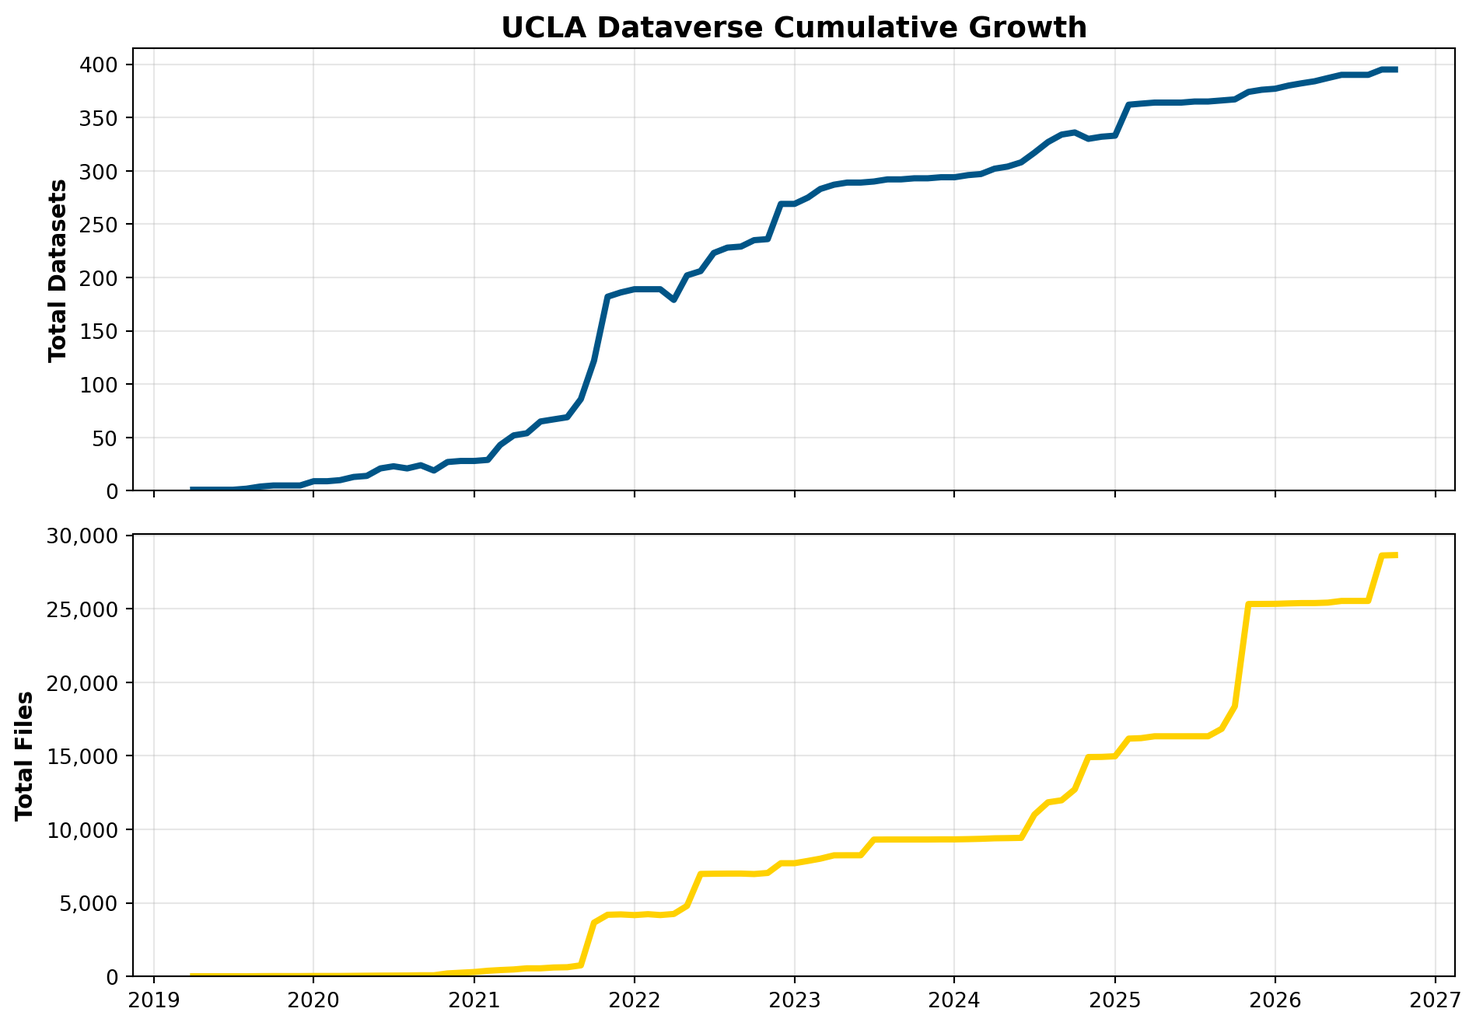
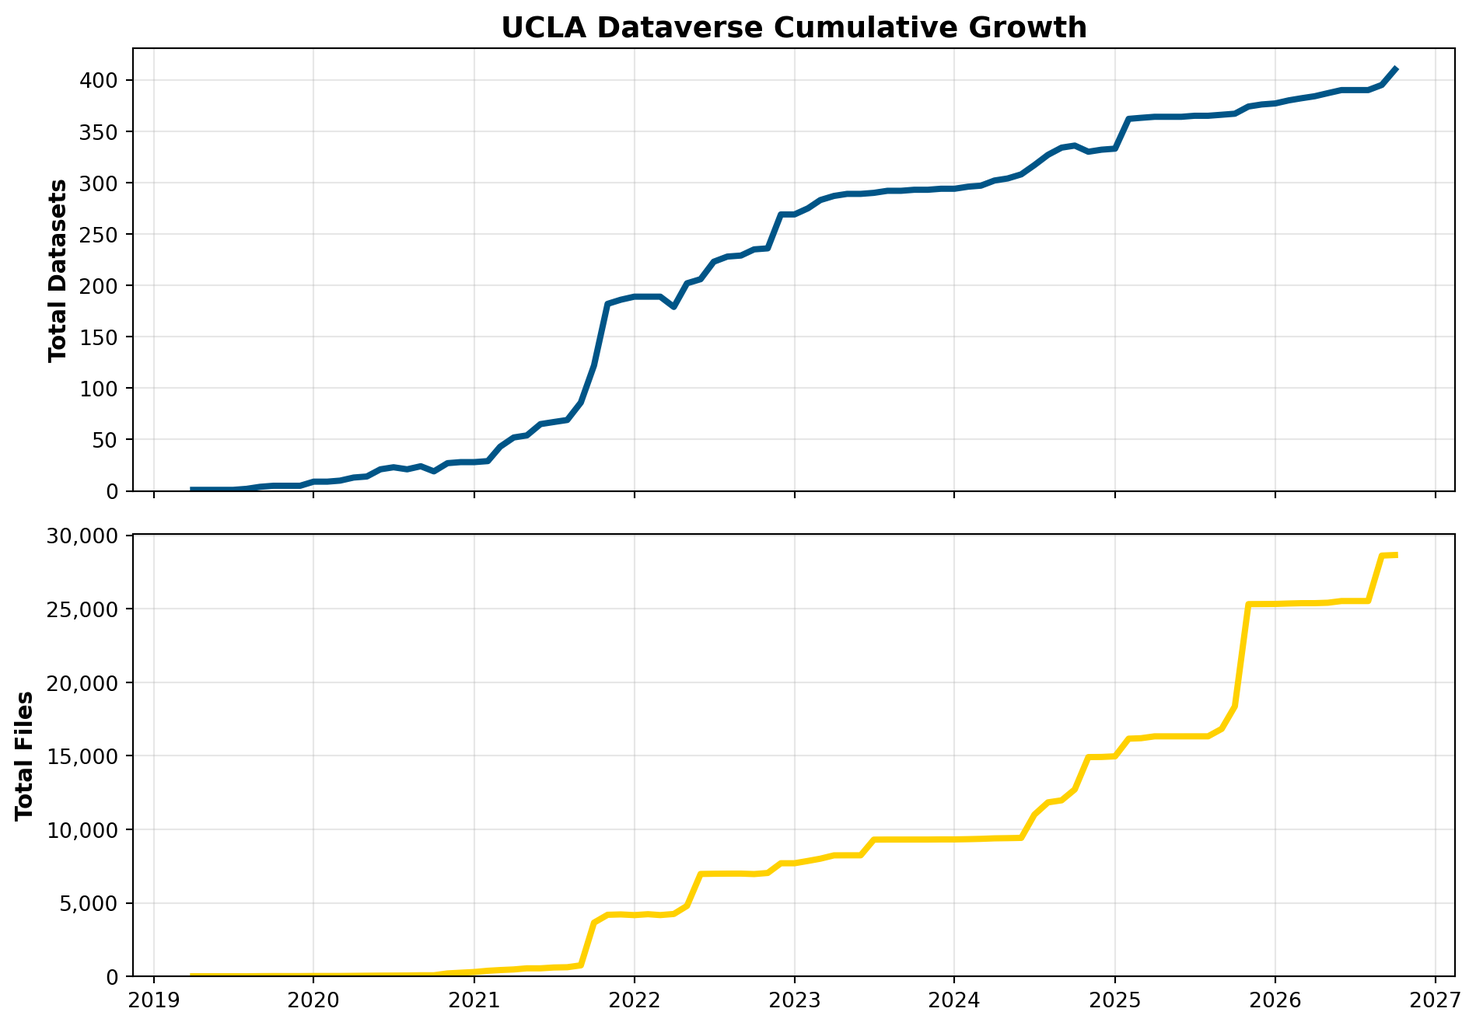
deploy: 56a7bd4430513649f002a55ab0844d240145ef59

diff --git a/instruction.html b/instruction.html
@@ -389,7 +389,7 @@ ul.task-list li input[type="checkbox"] {
 
 
 <p><em>Evidence page: registered seats and workshop attendance from attendee-level and validated aggregate sources, with their definitions and limits.</em></p>
-<p><em>Last rendered: October 08, 2026</em></p>
+<p><em>Last rendered: October 25, 2026</em></p>
 <div class="callout callout-style-default callout-note callout-titled">
 <div class="callout-header d-flex align-content-center">
 <div class="callout-icon-container">
@@ -741,16 +741,16 @@ ul.task-list li input[type="checkbox"] {
 </div>
 <div class="cell">
 <div class="cell-output-display">
-<div class="datatables html-widget html-fill-item" id="htmlwidget-4f428a3da0a5f399b748" style="width:100%;height:auto;"></div>
-<script type="application/json" data-for="htmlwidget-4f428a3da0a5f399b748">{"x":{"filter":"none","vertical":false,"caption":"<caption>UCLA departments. Search or sort to find a specific unit. 96 departments with fewer than 5 are combined into one row, or omitted if that row is also under 5.<\/caption>","data":[["Geography","Information Studies","Library","Multiple Departments","Social Science","Environment and Sustainability","Psychology","Urban Planning","Atmospheric and Oceanic Sciences","Chemistry and Biochemistry","Biostatistics","Mathematics","Political Science","Epidemiology","Education","Institute of the Environment and Sustainability","Statistics","UCLA Health","Management","Economics","Sociology","IT Services","Public Policy","Anthropology","Computer Science","Civil and Environmental Engineering","Health","Asian Languages and Cultures","Institute of Transportation Studies","English","History","Law","Linguistics","Architecture and Urban Design","Art History","Library Special Collections","Community Health Sciences","Ecology and Evolutionary Biology","East Asian Studies","Teaching and Learning Center","International Institute","Semel Institute for Neuroscience and Human Behavior","Pediatrics","Engineering Schoolwide Programs","Life Sciences","Humanities Technology","Pritzker Center for Strengthening Children and Families","Faculty Practice Group","Public Health","Health Policy and Management","Other units (each fewer than 5)"],[64,60,58,29,27,26,26,23,17,16,16,15,14,14,14,13,12,12,11,11,11,10,10,9,9,9,9,8,8,8,8,8,7,7,7,7,7,6,6,6,6,6,5,5,5,5,5,5,5,5,177]],"container":"<table class=\"display\">\n  <thead>\n    <tr>\n      <th>Department<\/th>\n      <th>Attendance<\/th>\n    <\/tr>\n  <\/thead>\n<\/table>","options":{"pageLength":10,"dom":"ftp","columnDefs":[{"className":"dt-right","targets":1},{"name":"Department","targets":0},{"name":"Attendance","targets":1}],"order":[],"autoWidth":false,"orderClasses":false}},"evals":[],"jsHooks":[]}</script>
+<div class="datatables html-widget html-fill-item" id="htmlwidget-35861446262e7d3df338" style="width:100%;height:auto;"></div>
+<script type="application/json" data-for="htmlwidget-35861446262e7d3df338">{"x":{"filter":"none","vertical":false,"caption":"<caption>UCLA departments. Search or sort to find a specific unit. 96 departments with fewer than 5 are combined into one row, or omitted if that row is also under 5.<\/caption>","data":[["Geography","Information Studies","Library","Multiple Departments","Social Science","Environment and Sustainability","Psychology","Urban Planning","Atmospheric and Oceanic Sciences","Chemistry and Biochemistry","Biostatistics","Mathematics","Political Science","Epidemiology","Education","Institute of the Environment and Sustainability","Statistics","UCLA Health","Management","Economics","Sociology","IT Services","Public Policy","Anthropology","Computer Science","Civil and Environmental Engineering","Health","Asian Languages and Cultures","Institute of Transportation Studies","English","History","Law","Linguistics","Architecture and Urban Design","Art History","Library Special Collections","Community Health Sciences","Ecology and Evolutionary Biology","East Asian Studies","Teaching and Learning Center","International Institute","Semel Institute for Neuroscience and Human Behavior","Pediatrics","Engineering Schoolwide Programs","Life Sciences","Humanities Technology","Pritzker Center for Strengthening Children and Families","Faculty Practice Group","Public Health","Health Policy and Management","Other units (each fewer than 5)"],[64,60,58,29,27,26,26,23,17,16,16,15,14,14,14,13,12,12,11,11,11,10,10,9,9,9,9,8,8,8,8,8,7,7,7,7,7,6,6,6,6,6,5,5,5,5,5,5,5,5,177]],"container":"<table class=\"display\">\n  <thead>\n    <tr>\n      <th>Department<\/th>\n      <th>Attendance<\/th>\n    <\/tr>\n  <\/thead>\n<\/table>","options":{"pageLength":10,"dom":"ftp","columnDefs":[{"className":"dt-right","targets":1},{"name":"Department","targets":0},{"name":"Attendance","targets":1}],"order":[],"autoWidth":false,"orderClasses":false}},"evals":[],"jsHooks":[]}</script>
 </div>
 </div>
 </div>
 <div id="tabset-1-4" class="tab-pane" role="tabpanel" aria-labelledby="tabset-1-4-tab">
 <div class="cell">
 <div class="cell-output-display">
-<div class="datatables html-widget html-fill-item" id="htmlwidget-00e0c13773099b1f066a" style="width:100%;height:auto;"></div>
-<script type="application/json" data-for="htmlwidget-00e0c13773099b1f066a">{"x":{"filter":"none","vertical":false,"caption":"<caption>Validated UCLA attendance by broader organizational parent. 10 parents with fewer than 5 are combined into one row, or omitted if that row is also under 5.<\/caption>","data":[["UCLA College — Social Sciences","School of Education and Information Studies","UCLA Library","UCLA College — Physical Sciences","David Geffen School of Medicine","Luskin School of Public Affairs","UCLA College — Life Sciences","Fielding School of Public Health","UCLA College — Humanities","Institute of the Environment and Sustainability","Samueli School of Engineering","UCLA Health","Campus administration","Research and technology administration","UCLA International Institute","Anderson School of Management","School of Arts and Architecture","School of Law","Other units (each fewer than 5)"],["college_division","professional_school","library","college_division","professional_school","professional_school","college_division","professional_school","college_division","academic_institute","professional_school","health_system","administrative_group","administrative_group","academic_institute","professional_school","professional_school","professional_school",null],[177,76,69,67,57,53,52,52,49,39,36,21,16,14,13,11,10,8,18]],"container":"<table class=\"display\">\n  <thead>\n    <tr>\n      <th>Organizational parent<\/th>\n      <th>Parent type<\/th>\n      <th>Attendance<\/th>\n    <\/tr>\n  <\/thead>\n<\/table>","options":{"pageLength":15,"dom":"ftp","columnDefs":[{"className":"dt-right","targets":2},{"name":"Organizational parent","targets":0},{"name":"Parent type","targets":1},{"name":"Attendance","targets":2}],"order":[],"autoWidth":false,"orderClasses":false,"lengthMenu":[10,15,25,50,100]}},"evals":[],"jsHooks":[]}</script>
+<div class="datatables html-widget html-fill-item" id="htmlwidget-b81d65b7638a16f94124" style="width:100%;height:auto;"></div>
+<script type="application/json" data-for="htmlwidget-b81d65b7638a16f94124">{"x":{"filter":"none","vertical":false,"caption":"<caption>Validated UCLA attendance by broader organizational parent. 10 parents with fewer than 5 are combined into one row, or omitted if that row is also under 5.<\/caption>","data":[["UCLA College — Social Sciences","School of Education and Information Studies","UCLA Library","UCLA College — Physical Sciences","David Geffen School of Medicine","Luskin School of Public Affairs","UCLA College — Life Sciences","Fielding School of Public Health","UCLA College — Humanities","Institute of the Environment and Sustainability","Samueli School of Engineering","UCLA Health","Campus administration","Research and technology administration","UCLA International Institute","Anderson School of Management","School of Arts and Architecture","School of Law","Other units (each fewer than 5)"],["college_division","professional_school","library","college_division","professional_school","professional_school","college_division","professional_school","college_division","academic_institute","professional_school","health_system","administrative_group","administrative_group","academic_institute","professional_school","professional_school","professional_school",null],[177,76,69,67,57,53,52,52,49,39,36,21,16,14,13,11,10,8,18]],"container":"<table class=\"display\">\n  <thead>\n    <tr>\n      <th>Organizational parent<\/th>\n      <th>Parent type<\/th>\n      <th>Attendance<\/th>\n    <\/tr>\n  <\/thead>\n<\/table>","options":{"pageLength":15,"dom":"ftp","columnDefs":[{"className":"dt-right","targets":2},{"name":"Organizational parent","targets":0},{"name":"Parent type","targets":1},{"name":"Attendance","targets":2}],"order":[],"autoWidth":false,"orderClasses":false,"lengthMenu":[10,15,25,50,100]}},"evals":[],"jsHooks":[]}</script>
 </div>
 </div>
 </div>
@@ -766,8 +766,8 @@ ul.task-list li input[type="checkbox"] {
 </div>
 <div class="cell">
 <div class="cell-output-display">
-<div class="datatables html-widget html-fill-item" id="htmlwidget-979975d7a8c36360d5e9" style="width:100%;height:auto;"></div>
-<script type="application/json" data-for="htmlwidget-979975d7a8c36360d5e9">{"x":{"filter":"none","vertical":false,"caption":"<caption>Participant affiliations. 142 affiliations with fewer than 5 are combined into one row, or omitted if that row is also under 5.<\/caption>","data":[["Graduate Student","Staff","UnderGraduate Student","Faculty","Postdoc","Graduate","Librarian","Other","Professional Researcher","Alumni","Undergrad","UC Alumni","Student, gradaute","PostDoc","Alum","Undergraduate","Student","Non-UCB","Project Scientist","Physician / Clinician","Research staff","Visiting Scholar","Community Member","Graduate, Other","Freshman/Sophomore","Medical Resident","Other units (each fewer than 5)"],[3627,2791,1538,655,593,411,395,389,285,137,80,68,44,35,31,29,20,13,12,11,10,10,9,6,6,6,203]],"container":"<table class=\"display\">\n  <thead>\n    <tr>\n      <th>Affiliation<\/th>\n      <th>Attendance<\/th>\n    <\/tr>\n  <\/thead>\n<\/table>","options":{"pageLength":10,"dom":"ftp","columnDefs":[{"className":"dt-right","targets":1},{"name":"Affiliation","targets":0},{"name":"Attendance","targets":1}],"order":[],"autoWidth":false,"orderClasses":false}},"evals":[],"jsHooks":[]}</script>
+<div class="datatables html-widget html-fill-item" id="htmlwidget-530b0c6908b8c080bce3" style="width:100%;height:auto;"></div>
+<script type="application/json" data-for="htmlwidget-530b0c6908b8c080bce3">{"x":{"filter":"none","vertical":false,"caption":"<caption>Participant affiliations. 142 affiliations with fewer than 5 are combined into one row, or omitted if that row is also under 5.<\/caption>","data":[["Graduate Student","Staff","UnderGraduate Student","Faculty","Postdoc","Graduate","Librarian","Other","Professional Researcher","Alumni","Undergrad","UC Alumni","Student, gradaute","PostDoc","Alum","Undergraduate","Student","Non-UCB","Project Scientist","Physician / Clinician","Research staff","Visiting Scholar","Community Member","Graduate, Other","Freshman/Sophomore","Medical Resident","Other units (each fewer than 5)"],[3627,2791,1538,655,593,411,395,389,285,137,80,68,44,35,31,29,20,13,12,11,10,10,9,6,6,6,203]],"container":"<table class=\"display\">\n  <thead>\n    <tr>\n      <th>Affiliation<\/th>\n      <th>Attendance<\/th>\n    <\/tr>\n  <\/thead>\n<\/table>","options":{"pageLength":10,"dom":"ftp","columnDefs":[{"className":"dt-right","targets":1},{"name":"Affiliation","targets":0},{"name":"Attendance","targets":1}],"order":[],"autoWidth":false,"orderClasses":false}},"evals":[],"jsHooks":[]}</script>
 </div>
 </div>
 </div>
@@ -854,7 +854,7 @@ ul.task-list li input[type="checkbox"] {
 </div>
 </div>
 </div>
-<p><em>Last rendered: October 08, 2026</em></p>
+<p><em>Last rendered: October 25, 2026</em></p>
 
 
 </section>

diff --git a/infrastructure.html b/infrastructure.html
@@ -380,17 +380,17 @@ ul.task-list li input[type="checkbox"] {
 <em>Operations and provenance appendix: repository, storage, and cloud metrics. For the research these systems support, see <a href="investments.html">Research supported by shared investments</a>.</em>
 </p>
 <p>
-<em>Last rendered: October 08, 2026</em>
+<em>Last rendered: October 25, 2026</em>
 </p>
 <div class="kpi-row grid">
 <div class="g-col-6 g-col-md-4 kpi-card">
-<p><span class="kpi-label">Dataverse Datasets</span> <span class="kpi-value">395</span> <span class="kpi-note">Released datasets deposited directly at UCLA, as of 2026-10. The repository’s released total (about 1,390, Feb 2026) also counts about 1,014 legacy SSDA datasets that Library staff harvested and curate.</span></p>
+<p><span class="kpi-label">Dataverse Datasets</span> <span class="kpi-value">410</span> <span class="kpi-note">Released datasets deposited directly at UCLA, as of 2026-10. The repository’s released total (about 1,390, Feb 2026) also counts about 1,014 legacy SSDA datasets that Library staff harvested and curate.</span></p>
 </div>
 <div class="g-col-6 g-col-md-4 kpi-card">
-<p><span class="kpi-label">Dataverse Files</span> <span class="kpi-value">28,644</span> <span class="kpi-note">Files in datasets deposited directly at UCLA, as of 2026-10</span></p>
+<p><span class="kpi-label">Dataverse Files</span> <span class="kpi-value">28,657</span> <span class="kpi-note">Files in datasets deposited directly at UCLA, as of 2026-10</span></p>
 </div>
 <div class="g-col-6 g-col-md-4 kpi-card">
-<p><span class="kpi-label">Total Downloads</span> <span class="kpi-value">259,022</span> <span class="kpi-note">File-level download events, cumulative, as of 2026-10. The same measure stood at about 143,000 in Feb 2026.</span></p>
+<p><span class="kpi-label">Total Downloads</span> <span class="kpi-value">266,168</span> <span class="kpi-note">File-level download events, cumulative, as of 2026-10. The same measure stood at about 143,000 in Feb 2026.</span></p>
 </div>
 </div>
 <div class="tabset-margin-container"></div><div class="panel-tabset">
@@ -399,7 +399,7 @@ ul.task-list li input[type="checkbox"] {
 <div id="tabset-1-1" class="tab-pane active" role="tabpanel" aria-labelledby="tabset-1-1-tab">
 <section id="repository-growth-cumulative" class="level3">
 <h3 class="anchored" data-anchor-id="repository-growth-cumulative">Repository Growth (Cumulative)</h3>
-<div id="8efbc431" class="cell" data-execution_count="3">
+<div id="8a9bb6db" class="cell" data-execution_count="3">
 <div class="cell-output cell-output-display">
 <div>
 <figure class="figure">
@@ -412,7 +412,7 @@ ul.task-list li input[type="checkbox"] {
 <section id="monthly-activity" class="level3">
 <h3 class="anchored" data-anchor-id="monthly-activity">Monthly Activity</h3>
 <p>Bars show the positive month-to-month change in the cumulative counts. Removals or corrections are not visible here, so this is net growth, not a count of everything published.</p>
-<div id="cbe92b71" class="cell" data-execution_count="4">
+<div id="764d943c" class="cell" data-execution_count="4">
 <div class="cell-output cell-output-display">
 <div>
 <figure class="figure">
@@ -426,7 +426,7 @@ ul.task-list li input[type="checkbox"] {
 <div id="tabset-1-2" class="tab-pane" role="tabpanel" aria-labelledby="tabset-1-2-tab">
 <section id="current-bucket-sizes" class="level3">
 <h3 class="anchored" data-anchor-id="current-bucket-sizes">Current Bucket Sizes</h3>
-<div id="872f812e" class="cell" data-results="asis" data-execution_count="5">
+<div id="af942d2b" class="cell" data-results="asis" data-execution_count="5">
 <div class="cell-output cell-output-display cell-output-markdown">
 <table class="caption-top table table-sm table-striped small">
 <colgroup>
@@ -445,62 +445,67 @@ ul.task-list li input[type="checkbox"] {
 <tr class="odd">
 <td>potree-test2</td>
 <td>11079.24 GiB</td>
-<td>2026-10-05</td>
+<td>2026-10-22</td>
 </tr>
 <tr class="even">
 <td>dataverse-files-replicated</td>
 <td>4346.38 GiB</td>
-<td>2026-10-05</td>
+<td>2026-10-22</td>
 </tr>
 <tr class="odd">
 <td>dataverse-files</td>
-<td>4346.33 GiB</td>
-<td>2026-10-05</td>
+<td>4346.34 GiB</td>
+<td>2026-10-22</td>
 </tr>
 <tr class="even">
 <td>ucla-dataverse-migration-assets</td>
-<td>513.14 GiB</td>
-<td>2026-10-05</td>
+<td>524.54 GiB</td>
+<td>2026-10-22</td>
 </tr>
 <tr class="odd">
 <td>dataverse-test-oregon</td>
 <td>196.47 GiB</td>
-<td>2026-10-05</td>
+<td>2026-10-22</td>
 </tr>
 <tr class="even">
 <td>test-dataverse-files2</td>
 <td>19.53 GiB</td>
-<td>2026-10-05</td>
+<td>2026-10-22</td>
 </tr>
 <tr class="odd">
 <td>lariac-backup</td>
 <td>3.34 GiB</td>
-<td>2026-10-05</td>
+<td>2026-10-22</td>
 </tr>
 <tr class="even">
 <td>dscbbillinginfo</td>
-<td>1.22 GiB</td>
-<td>2026-10-05</td>
+<td>1.24 GiB</td>
+<td>2026-10-22</td>
 </tr>
 <tr class="odd">
 <td>stackset-cloudtrail-stackset-4d9e86dd–trailbucket-ff7t7qulwkvo</td>
-<td>0.51 GiB</td>
-<td>2026-10-05</td>
+<td>0.60 GiB</td>
+<td>2026-10-22</td>
 </tr>
 <tr class="even">
 <td>test-dataverse-jmj</td>
 <td>0.00 GiB</td>
-<td>2026-10-05</td>
+<td>2026-10-22</td>
 </tr>
 <tr class="odd">
 <td>ucla-library-terraform-state</td>
 <td>0.00 GiB</td>
-<td>2026-10-05</td>
+<td>2026-10-22</td>
 </tr>
 <tr class="even">
 <td>bulk-policy-migration-221761179339</td>
 <td>0.00 GiB</td>
-<td>2026-10-05</td>
+<td>2026-10-22</td>
+</tr>
+<tr class="odd">
+<td>ucla-library-terraform-state-jmj</td>
+<td>0.00 GiB</td>
+<td>2026-10-22</td>
 </tr>
 </tbody>
 </table>
@@ -509,9 +514,9 @@ ul.task-list li input[type="checkbox"] {
 </section>
 <section id="potree-storage" class="level3">
 <h3 class="anchored" data-anchor-id="potree-storage">Potree Storage</h3>
-<div id="155664c1" class="cell" data-results="asis" data-execution_count="6">
+<div id="5b89ffe3" class="cell" data-results="asis" data-execution_count="6">
 <div class="cell-output cell-output-stdout">
-<pre><code>DSC hosts about 10.8 TiB of 3D point-cloud data for research visualization (Potree), as of 2026-10-06. Storage changed by +41.6 GiB (+0.4%) over the preceding 365 days.</code></pre>
+<pre><code>DSC hosts about 10.8 TiB of 3D point-cloud data for research visualization (Potree), as of 2026-10-24. Storage changed by +41.6 GiB (+0.4%) over the preceding 365 days.</code></pre>
 </div>
 </div>
 </section>
@@ -520,7 +525,7 @@ ul.task-list li input[type="checkbox"] {
 <section id="monthly-spend-share-by-application" class="level3">
 <h3 class="anchored" data-anchor-id="monthly-spend-share-by-application">Monthly Spend Share by Application</h3>
 <p>Operational view for DSC staff: each application’s share of monthly AWS charges, not absolute dollar amounts.</p>
-<div id="00bb39b3" class="cell" data-execution_count="7">
+<div id="6305888b" class="cell" data-execution_count="7">
 <div class="cell-output cell-output-display">
 <div>
 <figure class="figure">
@@ -553,7 +558,7 @@ ul.task-list li input[type="checkbox"] {
 <p><span class="kpi-label">Book-Chapter Links</span> <span class="kpi-value">160</span> <span class="kpi-note">Additional datasets linked to edited volumes (ISBN); citations not tracked</span></p>
 </div>
 </div>
-<div id="377953c8" class="cell" data-results="asis" data-execution_count="10">
+<div id="a5bf9fa5" class="cell" data-results="asis" data-execution_count="10">
 <div class="cell-output cell-output-display cell-output-markdown">
 <table class="caption-top table table-sm table-striped small">
 <colgroup>
@@ -734,9 +739,9 @@ ul.task-list li input[type="checkbox"] {
 </div>
 </div>
 <p><em>Last rendered:</em></p>
-<div id="a76c7740" class="cell" data-execution_count="12">
+<div id="737a2b93" class="cell" data-execution_count="12">
 <div class="cell-output cell-output-stdout">
-<pre><code>October 08, 2026</code></pre>
+<pre><code>October 25, 2026</code></pre>
 </div>
 </div>
 

diff --git a/consulting.html b/consulting.html
@@ -546,8 +546,8 @@ ul.task-list li input[type="checkbox"] {
 <div class="callout-body-container callout-body">
 <div class="cell">
 <div class="cell-output-display">
-<div class="datatables html-widget html-fill-item" id="htmlwidget-992cf4f0d38be8ad6d32" style="width:100%;height:auto;"></div>
-<script type="application/json" data-for="htmlwidget-992cf4f0d38be8ad6d32">{"x":{"filter":"none","vertical":false,"caption":"<caption>Consultation records file, Jan 2021 to Jun 2024. Named departments first; the combined group is listed last. 79 departments with fewer than 5 are combined into one row, or omitted if that row is also under 5.<\/caption>","data":[["Public Affairs","Ecology and Evolutionary Biology","History","Digital Humanities","Molecular, Cell, and Developmental Biology","Communications","Economics","Urban and Regional Planning","Political Science","Information Studies","Institute of the Environment and Sustainability","Health Policy and Management","Luskin School of Public Affairs","Chemistry","David Geffen School of Medicine","Public Health","Carceral Ecologies","Education","Environmental Science &amp; Engineering","Neuroscience","Psychology","Communication","Geography","Medicine","Public Policy","Asian Studies","Musicology","Society and Genetics","Spanish and Portuguese","Anderson School of Management","Gender Studies","Labor Studies","Statistics and Data Science","Other departments (each fewer than 5)"],[47,31,31,22,22,18,17,16,15,13,13,12,11,10,10,10,9,9,8,8,8,7,7,7,7,6,6,6,6,5,5,5,5,119]],"container":"<table class=\"display\">\n  <thead>\n    <tr>\n      <th>Department<\/th>\n      <th>Consultation records<\/th>\n    <\/tr>\n  <\/thead>\n<\/table>","options":{"pageLength":15,"dom":"ftp","columnDefs":[{"className":"dt-right","targets":1},{"name":"department","targets":0},{"name":"records","targets":1}],"order":[],"autoWidth":false,"orderClasses":false,"lengthMenu":[10,15,25,50,100]}},"evals":[],"jsHooks":[]}</script>
+<div class="datatables html-widget html-fill-item" id="htmlwidget-039987a2e194b92e2d2b" style="width:100%;height:auto;"></div>
+<script type="application/json" data-for="htmlwidget-039987a2e194b92e2d2b">{"x":{"filter":"none","vertical":false,"caption":"<caption>Consultation records file, Jan 2021 to Jun 2024. Named departments first; the combined group is listed last. 79 departments with fewer than 5 are combined into one row, or omitted if that row is also under 5.<\/caption>","data":[["Public Affairs","Ecology and Evolutionary Biology","History","Digital Humanities","Molecular, Cell, and Developmental Biology","Communications","Economics","Urban and Regional Planning","Political Science","Information Studies","Institute of the Environment and Sustainability","Health Policy and Management","Luskin School of Public Affairs","Chemistry","David Geffen School of Medicine","Public Health","Carceral Ecologies","Education","Environmental Science &amp; Engineering","Neuroscience","Psychology","Communication","Geography","Medicine","Public Policy","Asian Studies","Musicology","Society and Genetics","Spanish and Portuguese","Anderson School of Management","Gender Studies","Labor Studies","Statistics and Data Science","Other departments (each fewer than 5)"],[47,31,31,22,22,18,17,16,15,13,13,12,11,10,10,10,9,9,8,8,8,7,7,7,7,6,6,6,6,5,5,5,5,119]],"container":"<table class=\"display\">\n  <thead>\n    <tr>\n      <th>Department<\/th>\n      <th>Consultation records<\/th>\n    <\/tr>\n  <\/thead>\n<\/table>","options":{"pageLength":15,"dom":"ftp","columnDefs":[{"className":"dt-right","targets":1},{"name":"department","targets":0},{"name":"records","targets":1}],"order":[],"autoWidth":false,"orderClasses":false,"lengthMenu":[10,15,25,50,100]}},"evals":[],"jsHooks":[]}</script>
 </div>
 </div>
 </div>
@@ -721,7 +721,7 @@ ul.task-list li input[type="checkbox"] {
 </div>
 </div>
 </div>
-<p><em>Last rendered: October 08, 2026</em></p>
+<p><em>Last rendered: October 25, 2026</em></p>
 
 
 </section>

diff --git a/investments.html b/investments.html
@@ -726,7 +726,7 @@ ul.task-list li input[type="checkbox"] {
 </div>
 </div>
 </div>
-<p><em>Last rendered: October 08, 2026</em></p>
+<p><em>Last rendered: October 25, 2026</em></p>
 
 
 </section>

diff --git a/research.html b/research.html
@@ -596,7 +596,7 @@ ul.task-list li input[type="checkbox"] {
 </div>
 </div>
 </div>
-<p><em>Last rendered: October 08, 2026</em></p>
+<p><em>Last rendered: October 25, 2026</em></p>
 
 
 </section>

diff --git a/capability.html b/capability.html
@@ -582,7 +582,7 @@ All dated events, with sources
 </div>
 </div>
 </div>
-<p><em>Last rendered: October 08, 2026</em></p>
+<p><em>Last rendered: October 25, 2026</em></p>
 
 
 </section>

diff --git a/index.html b/index.html
@@ -451,7 +451,7 @@ Note
 </div>
 </div>
 </div>
-<p><em>Last rendered: October 08, 2026</em></p>
+<p><em>Last rendered: October 25, 2026</em></p>
 
 
 </section>
